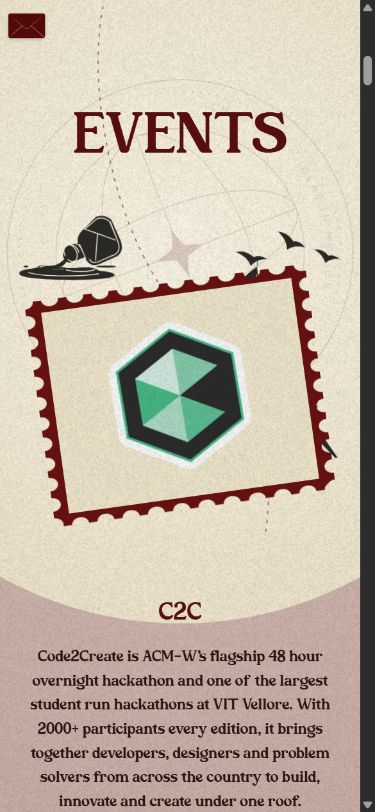
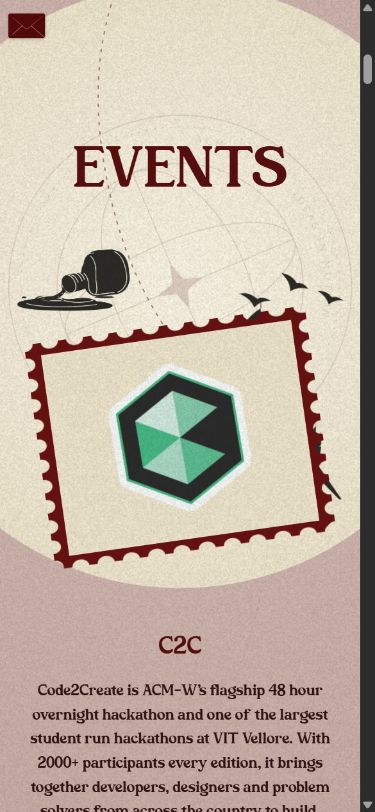
feat: refine stationery silhouettes and clarify the ink ripples
Lower the feather by only 16px on desktop and 8px on compact layouts. Keep
the existing widths, bottle placement and reversible scroll/ambient paths.

Redraw the original bottle as a fuller, rounded jar with curved cutout details,
slightly larger body/neck proportions and a charcoal paper-grain pattern.
Apply matching static grain to the feather. Use lightweight SVG paint patterns
rather than a live turbulence filter while the liquid animates.

Keep the accepted spill canvas, stream geometry and puddle proportions.
Add a moving highlight inside the stream and two wider, stronger ripple cycles
with offset phases and gentle fades. Preserve independent visible-only loops,
reduced-motion handling and observer/context cleanup.

Validation: full ESLint and TypeScript/Vite production build pass, skipping
the existing network blog refresh with --ignore-scripts. Existing bundle-size
warning remains. Desktop and 390px mobile previews show unobscured heading
and event copy, complete artwork and no horizontal overflow. Refresh both
preview screenshots. About/Event cards and inkFlow geometry are unchanged.

diff --git a/src/components/InkBottleArtwork.tsx b/src/components/InkBottleArtwork.tsx
@@ -1,26 +1,44 @@
 import { useId } from 'react';
 import { INK_FLOW_REST } from './inkFlow';
 
-/** Original bottle silhouette with a live stream and transparent ripple details. */
+/** Rounded, cut-paper bottle; the spill keeps its original size and position. */
 export default function InkBottleArtwork() {
-  const maskId = useId().replace(/:/g, '');
+  const id = useId().replace(/:/g, '');
+  const maskId = `${id}-cuts`;
+  const flowMaskId = `${id}-flow`;
+  const grainId = `${id}-grain`;
   return <svg className="stationery-ink-svg" width="380" height="240" viewBox="0 0 380 240" fill="none" focusable="false">
     <defs>
+      <pattern id={grainId} patternUnits="userSpaceOnUse" width="64" height="64">
+        <rect width="64" height="64" fill="#201f1d"/>
+        <path d="M33.4 51.6l0.8 -0.2M49.0 45.1l0.6 -0.3M1.7 24.6l0.6 -0.2M32.1 20.3l0.7 0.4M25.7 63.9l0.2 0.3M56.0 9.7l0.6 0.0M61.1 13.4l0.5 0.3M40.9 19.8l0.2 0.4M30.3 63.8l0.2 0.2M52.1 58.9l0.2 -0.1M3.3 48.1l0.4 0.4M24.0 49.6l0.7 -0.2M35.6 61.3l0.5 -0.1M17.1 50.3l0.3 0.1M35.6 35.4l0.2 0.1M58.7 20.4l0.4 0.3M37.0 17.4l0.2 0.2M22.3 29.9l0.3 0.1M46.7 19.8l0.2 0.4M58.2 1.3l0.5 0.1M25.8 46.8l0.8 0.1M25.1 12.5l0.3 -0.3M7.1 13.6l0.7 0.0M51.5 58.9l0.7 -0.4M59.3 5.9l0.7 0.3M42.1 25.8l0.2 -0.3M40.7 15.5l0.5 -0.2M10.5 18.9l0.6 -0.0M25.1 31.1l0.5 0.0M28.5 61.9l0.6 -0.2M20.4 12.1l0.4 -0.4M47.6 36.3l0.4 0.3M21.0 37.0l0.8 0.0M39.2 23.5l0.8 0.2M19.4 22.8l0.5 0.0M33.5 12.3l0.5 0.2M49.0 28.8l0.4 0.0M34.3 30.4l0.2 -0.2M63.2 52.9l0.5 0.2M13.5 17.1l0.5 0.2M1.8 30.2l0.7 0.1M63.6 6.3l0.7 0.3M1.7 34.3l0.6 -0.2M41.6 54.4l0.7 -0.1M3.7 34.5l0.3 0.0M17.2 22.2l0.5 0.3M62.4 26.0l0.2 0.2M21.7 48.5l0.7 -0.4M46.8 18.2l0.4 -0.1M34.5 15.6l0.5 -0.2M8.0 16.0l0.6 -0.2M12.8 23.4l0.3 0.4M50.4 9.7l0.3 -0.1M33.8 24.9l0.5 0.2M9.9 35.8l0.3 0.0M20.3 51.4l0.7 0.4M26.1 39.5l0.3 0.2M49.8 27.3l0.4 0.2M48.0 51.2l0.3 -0.2M16.0 12.2l0.2 -0.3M31.5 27.6l0.7 -0.1M10.9 59.6l0.2 -0.1M48.9 20.6l0.8 0.2M19.7 55.3l0.7 0.0M9.2 6.7l0.7 0.3M41.8 49.5l0.7 -0.2M13.6 55.5l0.7 -0.1M17.3 5.0l0.4 0.3M13.0 20.2l0.2 0.1M3.8 43.2l0.5 -0.1M16.6 19.4l0.7 0.4M48.1 13.6l0.3 -0.1M56.1 60.3l0.3 0.1M24.3 29.2l0.3 0.2M50.1 60.1l0.5 -0.0M41.4 8.4l0.7 0.2M14.6 25.7l0.5 0.3M44.3 15.3l0.8 0.3M54.9 31.5l0.5 -0.1M62.6 30.8l0.8 -0.3M1.9 30.2l0.3 -0.2M2.3 8.0l0.4 -0.3M19.0 39.2l0.3 -0.2M24.2 16.8l0.5 0.2M2.0 34.3l0.5 0.3M45.1 17.6l0.6 0.3M60.9 49.1l0.2 -0.1M30.6 21.1l0.6 -0.0M62.6 0.5l0.7 -0.3M33.2 9.5l0.4 0.1M61.4 2.6l0.4 -0.3M47.6 9.2l0.3 0.2M3.0 56.7l0.3 0.4M6.8 6.2l0.5 -0.2M41.2 19.4l0.4 -0.4M5.7 0.2l0.4 0.3M34.4 20.7l0.4 0.2M55.7 6.0l0.6 -0.2M59.5 46.4l0.5 0.1M48.8 4.5l0.4 -0.4M9.9 59.4l0.5 -0.2M18.9 26.8l0.2 0.3M24.4 3.6l0.5 -0.1M48.8 16.9l0.3 0.0M25.9 8.3l0.6 0.3M53.2 42.1l0.5 0.2M13.5 6.3l0.3 0.0M13.3 27.9l0.7 0.1M12.7 7.8l0.2 -0.4M16.7 45.6l0.7 -0.1M2.9 35.8l0.8 -0.4M40.2 63.9l0.4 0.1M51.9 42.6l0.3 0.2M37.5 42.3l0.5 0.3M36.6 59.1l0.2 -0.4M8.8 32.5l0.6 0.3M0.5 0.5l0.4 0.1M25.5 17.9l0.3 0.2M38.8 61.0l0.4 -0.0M61.6 44.8l0.3 0.2M28.6 5.7l0.2 -0.0M19.9 16.6l0.6 -0.2M28.9 32.5l0.2 0.2M17.1 10.4l0.5 -0.2M2.1 7.3l0.2 -0.1M20.9 13.4l0.3 0.3M36.8 38.8l0.2 0.3M2.1 48.9l0.6 -0.1M21.5 34.6l0.5 0.3M3.6 5.7l0.6 -0.2M37.1 24.5l0.2 0.3M12.0 21.3l0.6 0.3M54.8 59.5l0.4 -0.2M29.4 53.0l0.6 0.1M45.2 13.8l0.5 -0.1M56.4 19.8l0.5 0.1M45.2 50.4l0.6 -0.3M61.8 2.4l0.6 -0.2M6.4 23.2l0.2 -0.2M61.9 52.0l0.4 -0.0M38.3 20.3l0.2 -0.0M54.1 61.5l0.5 0.2M26.8 50.3l0.7 0.3M12.4 33.6l0.2 0.1M30.3 37.8l0.5 -0.1M9.0 20.6l0.7 -0.2M61.8 53.7l0.3 -0.0M51.1 0.6l0.7 -0.1M43.2 0.6l0.6 -0.4M18.2 39.3l0.6 -0.1M16.5 23.4l0.3 -0.2M15.8 31.8l0.6 0.3M25.2 60.5l0.4 0.3M52.1 48.2l0.7 0.1M56.4 17.5l0.5 0.1M34.1 3.8l0.3 0.1M23.5 44.9l0.6 0.0M8.5 28.6l0.7 -0.1M5.7 49.2l0.4 -0.2M32.8 58.5l0.5 -0.2M0.6 27.0l0.3 0.4M56.5 62.6l0.7 -0.2M40.7 35.3l0.5 0.0M13.9 9.9l0.2 0.2M10.7 55.3l0.6 -0.2M57.3 5.9l0.3 0.2M23.7 58.1l0.5 -0.4M59.5 63.2l0.4 0.2M43.7 6.5l0.6 -0.0M44.4 0.3l0.4 -0.2M59.3 1.9l0.2 -0.1M52.3 12.4l0.6 0.2M38.1 24.7l0.6 -0.3M17.1 55.3l0.3 -0.2M8.7 34.2l0.8 -0.3M32.9 57.2l0.2 -0.0M19.2 35.2l0.8 0.3M21.3 12.9l0.5 0.4M15.5 17.4l0.4 0.4M19.0 12.4l0.4 0.0" stroke="#69645c" strokeWidth=".7" strokeLinecap="round" opacity=".36"/>
+        <path d="M3 12l4-1m18 5 5-2m14 29 5-1M12 48l3 2m36-46 4 1M20 34l4-1M57 28l3 2" stroke="#82786a" strokeWidth=".45" opacity=".2"/>
+      </pattern>
       <mask id={maskId} maskUnits="userSpaceOnUse" x="0" y="0" width="380" height="240">
         <rect width="380" height="240" fill="white"/>
-        <g stroke="black" strokeWidth="3" strokeLinejoin="round" strokeLinecap="round" fill="none">
-          <path d="M222 63 261 30q22-7 40 9l25 59q13 32-8 45l-53 23q-19 7-27-7M263 77l56 20M263 77l-40-14m40 14-6 84M303 40l23 58M206 111l19 43M45 201c42 13 155 13 222 3M80 184c26-11 64-4 88-1m-4 9c32 8 70 6 90-1"/>
-          <ellipse cx="178" cy="139" rx="19" ry="28" transform="rotate(-26 178 139)"/>
-          <path d="M180 113q17 1 24 23m-15-28q18 1 26 24"/>
+        <g transform="translate(178 139) scale(1.04) translate(-178 -139)" stroke="black" strokeWidth="2.4" strokeLinejoin="round" strokeLinecap="round" fill="none">
+          <path d="M255 45C234 43 218 63 219 85M225 107C236 117 239 131 239 149C241 168 255 175 274 170L317 165M245 54C259 67 262 88 261 112C260 139 269 158 260 170M317 41C341 50 352 83 355 118C356 139 345 157 328 164"/>
+          <ellipse cx="178" cy="139" rx="20" ry="29" transform="rotate(-26 178 139)"/>
+          <path d="M181 111q18 0 26 23m-15-28q18 0 27 24m-18-27q18 2 25 22"/>
         </g>
-        <ellipse data-ink-ripple cx="137" cy="188" rx="25" ry="4" fill="none" stroke="black" strokeWidth="1.8" opacity="0"/>
+        <path d="M45 201c42 13 155 13 222 3M80 184c26-11 64-4 88-1m-4 9c32 8 70 6 90-1" stroke="black" strokeWidth="2.2" strokeLinecap="round"/>
+        <ellipse data-ink-ripple cx="137" cy="188" rx="30" ry="4.8" fill="none" stroke="black" strokeWidth="2.4" opacity="0"/>
+        <ellipse data-ink-ripple cx="137" cy="188" rx="30" ry="4.8" fill="none" stroke="black" strokeWidth="1.8" opacity="0"/>
+      </mask>
+      <mask id={flowMaskId} maskUnits="userSpaceOnUse" x="0" y="0" width="380" height="240">
+        <rect width="380" height="240" fill="white"/>
+        <path data-ink-current d="M166 155C162 171 147 181 126 184" fill="none" stroke="black" strokeWidth="1.8" strokeLinecap="round" strokeDasharray="4 12" opacity=".8"/>
       </mask>
     </defs>
-    <path data-ink-stream fill="#201f1d" d={INK_FLOW_REST}/>
+    <path data-ink-stream fill="#201f1d" d={INK_FLOW_REST} mask={`url(#${flowMaskId})`}/>
     <path data-ink-drop fill="#201f1d" d="M151 161c-2 4-4 6-4 8a3 3 0 0 0 6 0c0-2-1-5-2-8Z" opacity="0"/>
     <g fill="#201f1d" mask={`url(#${maskId})`}>
-      <path d="M258 24q27-9 48 9l28 61q16 37-10 55l-57 25q-25 9-39-13l-23-45q-12-24 6-45Z"/>
-      <path d="m215 104-30 7q-20 1-28 19-8 20 5 33 10 11 26 2l39-15Z"/>
+      <g transform="translate(178 139) scale(1.04) translate(-178 -139)">
+        <g fill={`url(#${grainId})`}>
+          <path d="M224 77C225 55 242 38 267 37L310 34L319 37C341 39 355 60 360 84L364 121C363 148 347 166 325 170L272 177C250 180 231 166 227 148L219 121C214 104 216 89 224 77Z"/>
+          <path d="M227 103L187 108C168 108 155 120 155 136C154 153 165 169 181 168L237 151Z"/>
+        </g>
+      </g>
       <path d="M139 175c-19 8-58-5-66 10-16 5-54 5-57 17-6 17 78 20 115 21 62 3 161-1 181-10 18-9-14-17-44-19-25-15-55-11-75-8-31 3-40-3-54-11Z"/>
       <ellipse cx="291" cy="181" rx="31" ry="3"/>
       <ellipse cx="37" cy="182" rx="7" ry="3"/>

diff --git a/src/components/JourneyStationery.tsx b/src/components/JourneyStationery.tsx
@@ -53,11 +53,18 @@ export default function JourneyStationery({ kind }: { kind: StationeryKind }) {
           .fromTo(select('[data-ink-drop]'), { x: 0, y: 0, opacity: 0 }, { opacity: .85, duration: .25 })
           .to(select('[data-ink-drop]'), { x: -12, y: 17, duration: .85, ease: 'power1.in' }, 0)
           .to(select('[data-ink-drop]'), { opacity: 0, duration: .3 }, .55));
-        loops.push(gsap.timeline({ paused: true, repeat: -1, repeatDelay: .4 })
-          .fromTo(select('[data-ink-ripple]'), { scaleX: .45, scaleY: .55, opacity: 0, svgOrigin: '137 188' },
-            { scaleX: 1.3, scaleY: 1.1, duration: 2.8, ease: 'sine.out' })
-          .to(select('[data-ink-ripple]'), { opacity: .65, duration: .55 }, 0)
-          .to(select('[data-ink-ripple]'), { opacity: 0, duration: 1.4 }, 1.4));
+        loops.push(gsap.fromTo(select('[data-ink-current]'), { attr: { 'stroke-dashoffset': 0 } }, {
+          attr: { 'stroke-dashoffset': -16 }, duration: 1.8, repeat: -1, ease: 'none', paused: true,
+        }));
+        stage.querySelectorAll<SVGEllipseElement>('[data-ink-ripple]').forEach((ripple, index) => {
+          const rippleLoop = gsap.timeline({ paused: true, repeat: -1 })
+            .fromTo(ripple, { scaleX: .35, scaleY: .6, opacity: 0, svgOrigin: '137 188' },
+              { scaleX: 1.6, scaleY: 1.25, duration: 3.2, ease: 'sine.out' })
+            .to(ripple, { opacity: .9, duration: .6 }, 0)
+            .to(ripple, { opacity: 0, duration: 1.6 }, 1.6);
+          rippleLoop.progress(index * .5).pause();
+          loops.push(rippleLoop);
+        });
       }
 
       let inView = false;

diff --git a/src/components/ChapterJourney.css b/src/components/ChapterJourney.css
@@ -31,7 +31,7 @@
 .journey-asset--spark { top: 5%; left: 7%; width: clamp(70px, 10vw, 150px); opacity: .28; }
 /* Silhouettes frame the centered title, ending before the event descriptions. */
 .journey-asset--quill,.journey-asset--ink { opacity: .94; }
-.journey-asset--quill { top: calc(var(--journey-events-y) - 210px); right: 2%; width: clamp(220px, 21vw, 290px); aspect-ratio: 320 / 560; }
+.journey-asset--quill { top: calc(var(--journey-events-y) - 194px); right: 2%; width: clamp(220px, 21vw, 290px); aspect-ratio: 320 / 560; }
 .journey-asset--ink { top: calc(var(--journey-events-y) + 32px); left: 3%; width: clamp(220px, 22vw, 300px); aspect-ratio: 380 / 240; }
 .journey-asset--orbit { top: 60%; right: -10%; width: clamp(260px, 40vw, 620px); opacity: .15; }
 .journey-asset--letter { top: 76%; left: 3%; width: clamp(160px, 23vw, 340px); opacity: .19; }
@@ -45,7 +45,7 @@
 .chapter-trail-seal svg { width: 100%; height: 100%; stroke: currentColor; stroke-width: 1; opacity: .55; }
 @media(max-width:48rem) {
   .journey-portal { width: 112vw; opacity: .19; }
-  .journey-asset--quill { top: calc(var(--journey-events-y) + 160px); right: 1%; width: clamp(140px, 26vw, 190px); }
+  .journey-asset--quill { top: calc(var(--journey-events-y) + 168px); right: 1%; width: clamp(140px, 26vw, 190px); }
   .journey-asset--ink { top: calc(var(--journey-events-y) + 150px); left: 4%; width: clamp(125px, 32vw, 170px); }
   .journey-asset--orbit { right: -35%; opacity: .12; }
   .journey-asset--letter { left: -19%; opacity: .14; }
